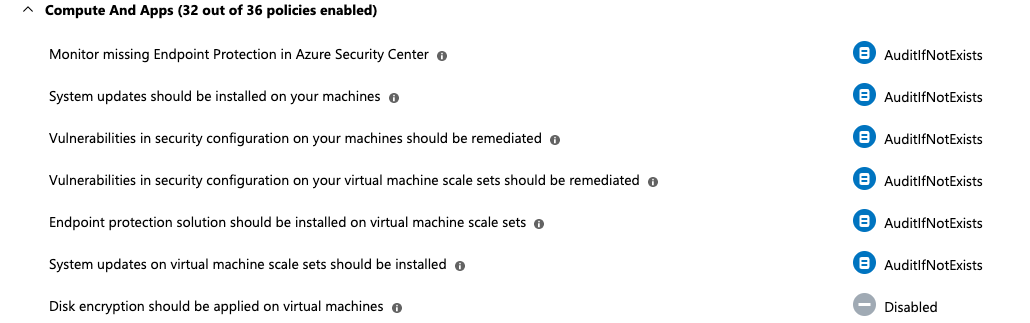
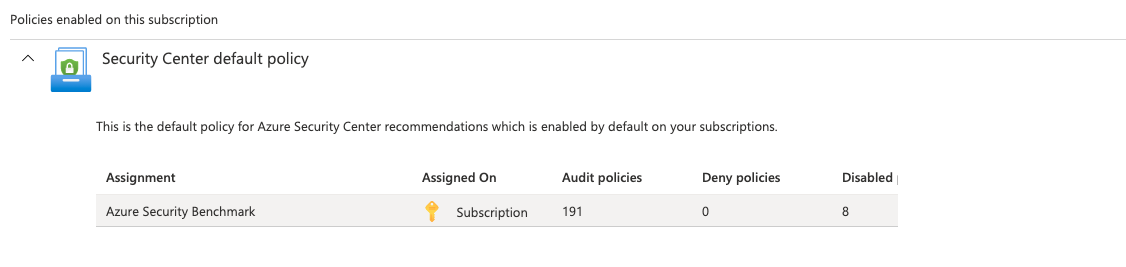
Patch 319-monitor-disk-encryption-update (#340)
* Update monitor-disk-encryption.md

* Add files via upload

* Update monitor-disk-encryption.md

* Update monitor-disk-encryption.md

* Add files via upload

* Delete step9.png

* Add files via upload

* Delete step9.png

* Add files via upload

* Delete step9.png

* Update monitor-disk-encryption.md

* Add files via upload

* Add files via upload

* Update monitor-disk-encryption.md

* Update monitor-disk-encryption.md

diff --git a/en/azure/securitycenter/monitor-disk-encryption.md b/en/azure/securitycenter/monitor-disk-encryption.md
@@ -19,11 +19,13 @@
 
 1. Log into the Microsoft Azure Management Console.
 2. Select the "Search resources, services, and docs" option at the top and search for Security Center. </br> <img src="/resources/azure/securitycenter/monitor-disk-encryption/step2.png"/>
-3.Scroll down the "Security Center" navigation panel and select the "Security policy" option under the "Management" on left navigation panel.</br>
+3. Scroll down the "Security Center" and select the "Security policy" option under the "Management" on left navigation panel.</br> 
 4. On the "Policy Management" page under "Name" column select the "Subscription Name" that needs to be verified.</br> <img src="/resources/azure/securitycenter/monitor-disk-encryption/step4.png"/>
-5. On the "Security Policy" page scroll down the "Compute And Apps" section and check the "Disk encryption should be applied on virtual machines". If it's set to "Disabled" then "Disk Encryption monitoring" is not enabled on the selected "Subscription."</br> <img src="/resources/azure/securitycenter/monitor-disk-encryption/step5.png"/>
-6. Repeat steps number 2 - 5 to check other "Subscriptions" under the "Security Center."</br>
-7. Navigate to the "Security Center", select the "Security policy" and under "Policy Management" select the "Subscription" that needs to enable the "Disk Encryption monitoring."</br> <img src="/resources/azure/securitycenter/monitor-disk-encryption/step7.png"/>
-8. Select the "Subscription" link under the "Security policy" at the top to get into the configuration settings. </br> <img src="/resources/azure/securitycenter/monitor-disk-encryption/step8.png"/>
-9. Scroll down the page and under "Parameter" choose the "Disk encryption should be applied on virtual machines" and select the "AuditIfNotExists" option from the dropdown menu and click on the "Save" button at the bottom to make the necessary changes.</br> <img src="/resources/azure/securitycenter/monitor-disk-encryption/step9.png"/>
-10. Repeat steps number 7 - 9 to ensures "Disk Encryption monitoring" is enabled in Security Center.</br>
+5. In the "Security Policy" page scroll down and click on the "Azure Security Benchmark".</br> <img src="/resources/azure/securitycenter/monitor-disk-encryption/step5.png"/>
+6. In the "Azure Security Benchmark" click on the Next button.</br> <img src="/resources/azure/securitycenter/monitor-disk-encryption/step6.png"/>
+7. In the "Azure Security Benchmark", check for the "Disk encryption should be applied on virtual machines" Parameter and if it's set to "Disable" then the encryption is not enabled.</br>  <img src="/resources/azure/securitycenter/monitor-disk-encryption/step7.png"/>
+8. Repeat steps number 2 - 7 to check other "Subscriptions" under the "Security Center."</br>
+9. Navigate to the "Security Center", select the "Security policy" and under "Policy Management" select the "Subscription" that needs to enable the "Disk Encryption monitoring."</br> <img src="/resources/azure/securitycenter/monitor-disk-encryption/step9.png"/>
+10. In the "Security Policy" page scroll down and click on the "Azure Security Benchmark" and click on the "Next" button. </br> <img src="/resources/azure/securitycenter/monitor-disk-encryption/step10.png"/>
+11. Scroll down the page and under "Parameter" choose the "Disk encryption should be applied on virtual machines" and select the "AuditIfNotExists" option from the dropdown menu and click on the "Save" button at the bottom to make the necessary changes.</br> <img src="/resources/azure/securitycenter/monitor-disk-encryption/step11.png"/>
+12. Repeat steps number 9 - 11 to ensures "Disk Encryption monitoring" is enabled in Security Center.</br>
